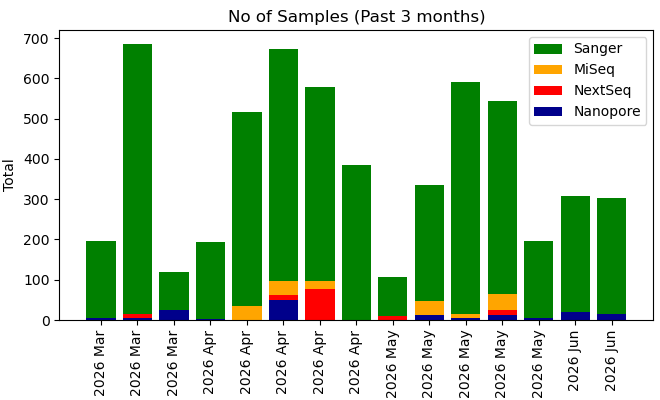
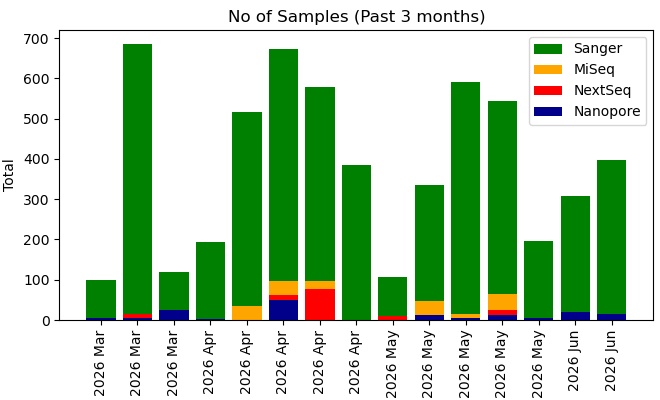
Your commit message here

Changed region(s): [[0.8788, 0.39, 0.9697, 0.51], [0.1212, 0.6, 0.1818, 0.72]]

diff --git a/krona/cgs.html b/krona/cgs.html
@@ -52,8 +52,8 @@ body {
   flex-direction: column;
 }
 </style>
-<H1>Genomics Facility Status: 07:00:10, 12/06/2026</H1>
-<marquee behavior="scroll" scrollamount="20" direction="left" bgcolor="lightgrey">AAACAGGGTCGCCAGCAATATCGGTATAAGTCAAAGCACCTTTAGCGTTAAGGTACTGAATCTCTTTAGTCGCAGTAGGCGGAAAACGAACAAGCGCAAGAGTAAACATAGTGCCATGCTCAGGAACAAAGAAACGCGGCACAGAATGTTTATAGGTCTGTTGAACACGACCAGAAAACTGGCCTAACGACGTTTGGTCAGTTCCATCAACATCATAGCCAGATGCCCAGAGATTAGAGCGCATGTCAAGT</marquee>
+<H1>Genomics Facility Status: 07:00:12, 13/06/2026</H1>
+<marquee behavior="scroll" scrollamount="20" direction="left" bgcolor="lightgrey">CGTAACCGAATAAGACTCAAATCGAACCAAACAGGCAAAAAATTTATGGTCGGCATCAAAAGCAATATCAGCACCAACAGAAACAACCTGATTAGCGGCGTTGACAGATGTATCCATCTGAATGCAATGAAGAAAACCACCATTACCAGCATTAACCGTCAAACTATCAAAATATAACGTTGACGATGTAGCTTTAGGTGTCTGTAAAACAGGTGCCGAAGAAGCTGGAGTAACAGAAGTGAGAACCAGCT</marquee>
 <TABLE BORDER=0><TR><TD><TABLE class="styled-table"><H3>GigaBases Sequenced</H3>
-<TR><TD><b>Platform</b></TD><TD><b>Week</b></TD><TD><b>Month</b></TD><TD><b>Year</b></TD><TD><b>Total</b></TD></TR><TR><TD>Illumina MiSeq</TD><TD>0.0</TD><TD>8.67</TD><TD>347.97</TD><TD>567.8</TD></TR><TR><TD>Illumina NextSeq</TD><TD>0.0</TD><TD>7.41</TD><TD>3868.75</TD><TD>6653.75</TD></TR><TR><TD>Nanopore PromethION</TD><TD>404.25</TD><TD>1237.9</TD><TD>8510.03</TD><TD>13454.23</TD></TR><TR><TD>Sanger</TD><TD>0.0</TD><TD>0.0</TD><TD>0.02</TD><TD>0.05</TD></TR></TABLE></TD><TD><IMG SRC="fig1.png"><IMG SRC="fig2.png"></TD></TR><TR><TD><H3>No. Samples (No. Experiments)</H3>
-<TABLE class="styled-table"><TR><TD><b>Platform</b></TD><TD><b>Week</b></TD><TD><b>Month</b></TD><TD><b>Year</b></TD><TD><b>Total</b></TD></TR><TR><TD>Illumina MiSeq</TD><TD>0 (0)</TD><TD>48 (2)</TD><TD>1395 (70)</TD><TD>2514 (101)</TD></TR><TR><TD>Illumina NextSeq</TD><TD>0 (0)</TD><TD>12 (2)</TD><TD>1244 (59)</TD><TD>2198 (89)</TD></TR><TR><TD>Nanopore PromethION</TD><TD>31 (12)</TD><TD>55 (29)</TD><TD>629 (212)</TD><TD>1057 (374)</TD></TR><TR><TD>Sanger</TD><TD>384 (384)</TD><TD>1824 (1824)</TD><TD>21115 (21115)</TD><TD>46434 (46434)</TD></TR></TABLE></TD><TD><IMG SRC="fig4.png"></TD></TR></TABLE></HTML>
+<TR><TD><b>Platform</b></TD><TD><b>Week</b></TD><TD><b>Month</b></TD><TD><b>Year</b></TD><TD><b>Total</b></TD></TR><TR><TD>Illumina MiSeq</TD><TD>0.0</TD><TD>8.67</TD><TD>347.97</TD><TD>567.8</TD></TR><TR><TD>Illumina NextSeq</TD><TD>0.0</TD><TD>7.41</TD><TD>3868.75</TD><TD>6653.75</TD></TR><TR><TD>Nanopore PromethION</TD><TD>399.81</TD><TD>1237.9</TD><TD>8510.03</TD><TD>13454.23</TD></TR><TR><TD>Sanger</TD><TD>0.0</TD><TD>0.0</TD><TD>0.02</TD><TD>0.05</TD></TR></TABLE></TD><TD><IMG SRC="fig1.png"><IMG SRC="fig2.png"></TD></TR><TR><TD><H3>No. Samples (No. Experiments)</H3>
+<TABLE class="styled-table"><TR><TD><b>Platform</b></TD><TD><b>Week</b></TD><TD><b>Month</b></TD><TD><b>Year</b></TD><TD><b>Total</b></TD></TR><TR><TD>Illumina MiSeq</TD><TD>0 (0)</TD><TD>48 (2)</TD><TD>1395 (70)</TD><TD>2514 (101)</TD></TR><TR><TD>Illumina NextSeq</TD><TD>0 (0)</TD><TD>12 (2)</TD><TD>1244 (59)</TD><TD>2198 (89)</TD></TR><TR><TD>Nanopore PromethION</TD><TD>30 (11)</TD><TD>55 (29)</TD><TD>629 (212)</TD><TD>1057 (374)</TD></TR><TR><TD>Sanger</TD><TD>480 (480)</TD><TD>1824 (1824)</TD><TD>21115 (21115)</TD><TD>46530 (46530)</TD></TR></TABLE></TD><TD><IMG SRC="fig4.png"></TD></TR></TABLE></HTML>
